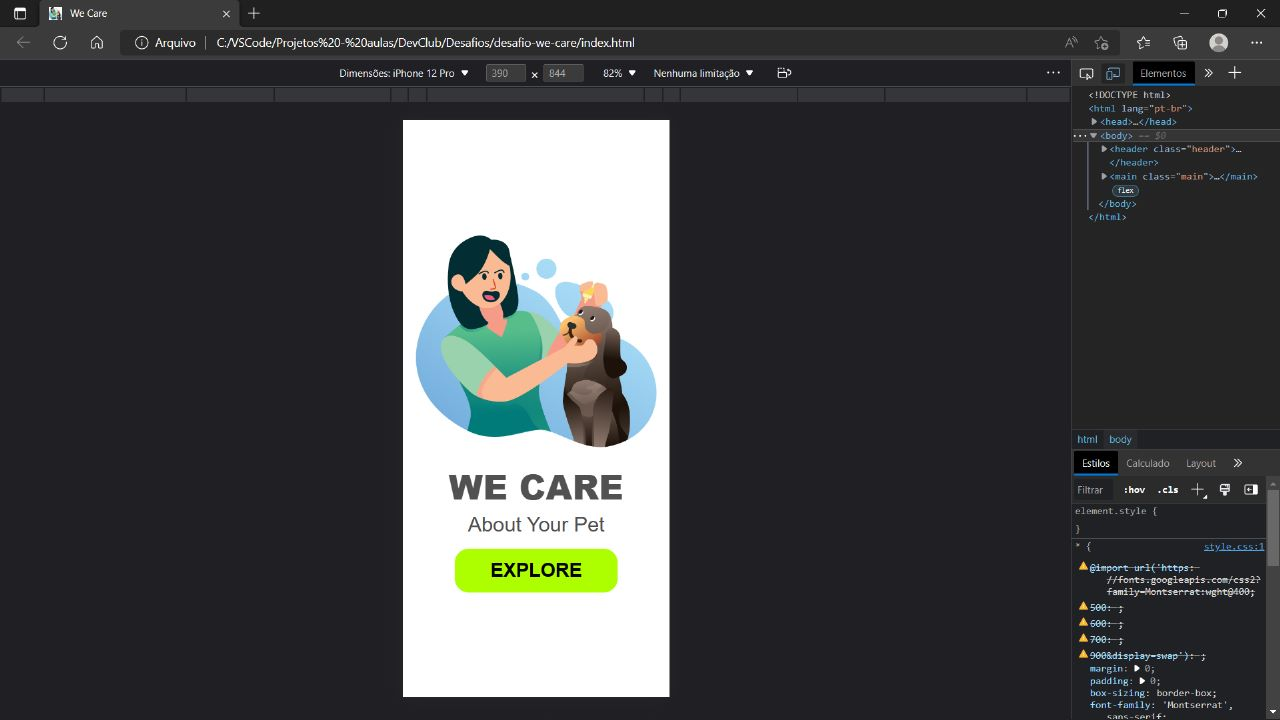
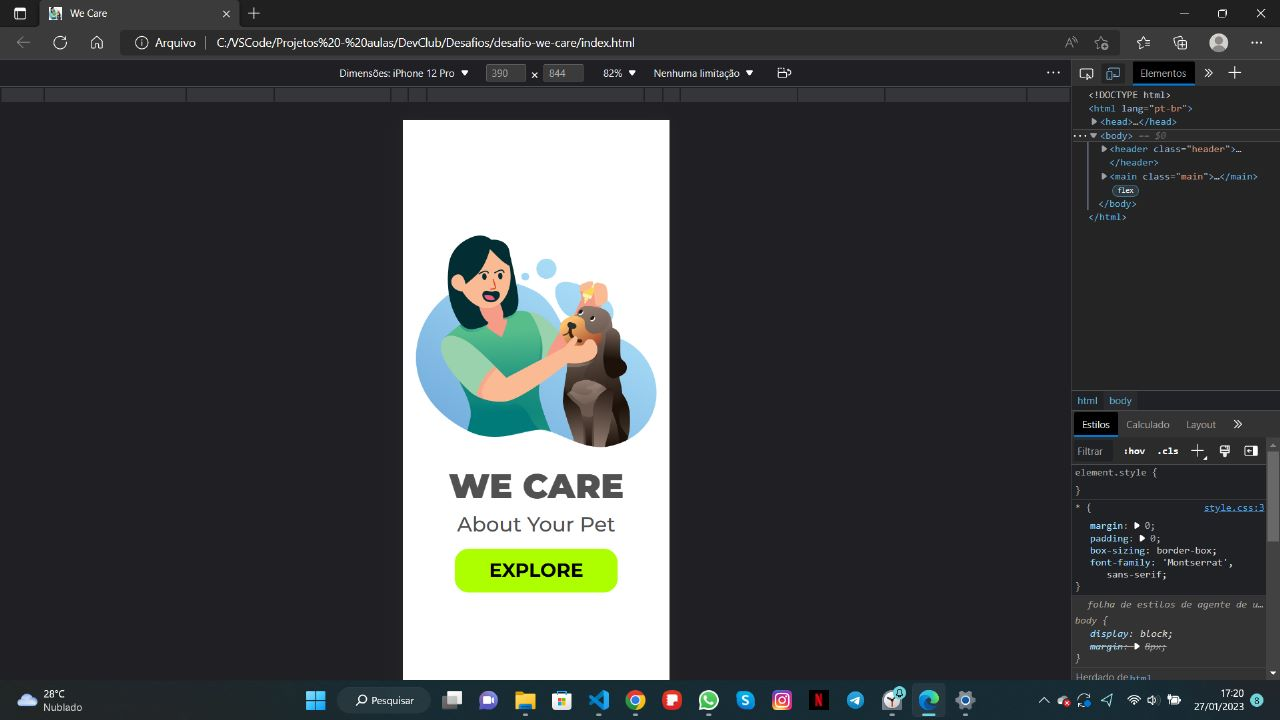
Fixing the error when importing the font
The source statement was made in an incorrect place.

diff --git a/desafio-we-care/css/style.css b/desafio-we-care/css/style.css
@@ -1,5 +1,6 @@
+@import url('https://fonts.googleapis.com/css2?family=Montserrat:wght@400;500;600;700;900&display=swap');
+
 * {
-    @import url('https://fonts.googleapis.com/css2?family=Montserrat:wght@400;500;600;700;900&display=swap');
     margin: 0; 
     padding: 0; 
     box-sizing: border-box; 

diff --git a/README.md b/README.md
@@ -4,9 +4,9 @@ Segue os desafios realizados no curso Full Stack do DevClub.
 # 🛠 Linguagens e ferramentas:
 <img alt="imagem-HTML" height="30" width="40" src="https://cdn.jsdelivr.net/gh/devicons/devicon/icons/html5/html5-plain-wordmark.svg" /> <img alt="imagem-CSS" height="30" width="40" src="https://cdn.jsdelivr.net/gh/devicons/devicon/icons/css3/css3-plain-wordmark.svg" /> <img alt="imagem-VSCode" height="30" width="40" src="https://cdn.jsdelivr.net/gh/devicons/devicon/icons/vscode/vscode-original.svg" />
 
-1. desafio-easy-shopping. [Código!](https://github.com/ferreiraitalo/Desafios-Curso-DevClub/tree/main/desafio-easy-shopping)🔗
-2. desafio-we-care. [Código!](https://github.com/ferreiraitalo/Desafios-Curso-DevClub/tree/main/desafio-we-care)🔗
-3. desafio-wide-coverage-location. [Código!](https://github.com/ferreiraitalo/Desafios-Curso-DevClub/tree/main/desafio-wide-coverage-location)🔗
+1. desafio-easy-shopping. 🔗[Código!](https://github.com/ferreiraitalo/Desafios-Curso-DevClub/tree/main/desafio-easy-shopping) 🔗[Website!](https://desafio-easy-shopping-via-mobile.netlify.app)
+2. desafio-we-care. 🔗[Código!](https://github.com/ferreiraitalo/Desafios-Curso-DevClub/tree/main/desafio-we-care)🔗[Website!](https://desafio-we-care.netlify.app)
+3. desafio-wide-coverage-location. 🔗[Código!](https://github.com/ferreiraitalo/Desafios-Curso-DevClub/tree/main/desafio-wide-coverage-location)🔗[Website!](https://desafio-wide-coverage-location.netlify.app)
 
 # 🖥 Imagens / Visualizações:
 ### Primeiro desafio:
